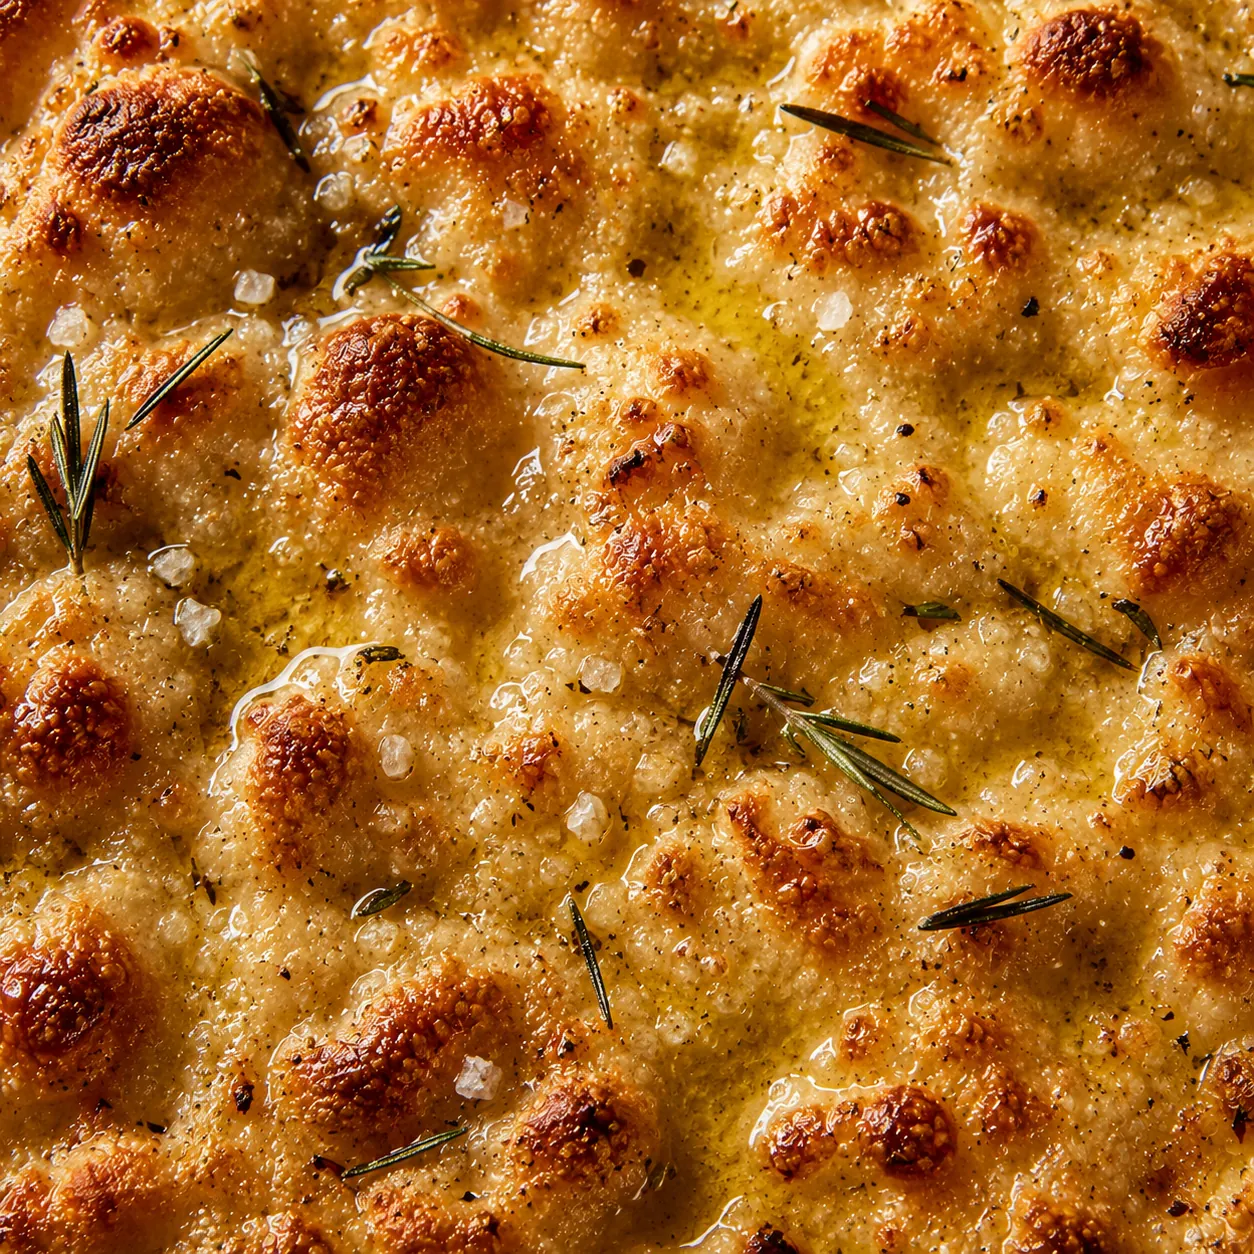
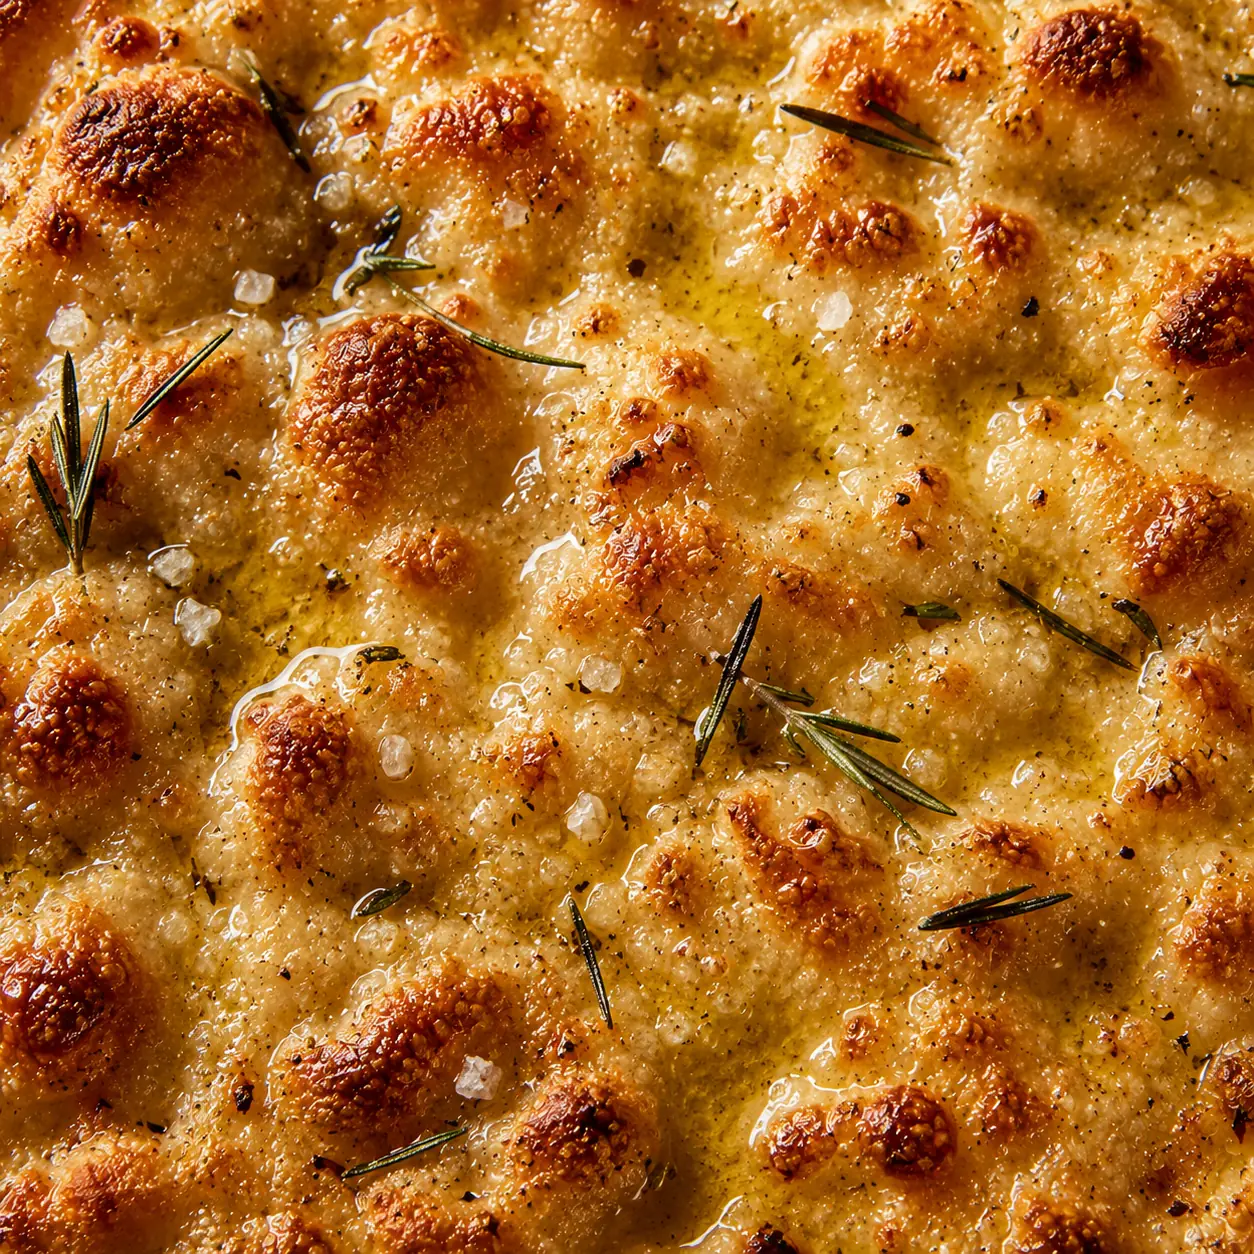
feat(learn): illustrate dough measurement, covered rest and ingredients (#188)

diff --git a/src/app/features/learning/learning-illustration.tsx b/src/app/features/learning/learning-illustration.tsx
@@ -28,6 +28,11 @@ import mozzarellaDrying from "../../../assets/learn/mozzarella-drying.webp";
 import stoneBrushing from "../../../assets/learn/stone-brushing.webp";
 import pizzaTurning from "../../../assets/learn/pizza-turning.webp";
 import oilTemperature from "../../../assets/learn/oil-temperature.webp";
+import doughTemperature from "../../../assets/learn/dough-temperature.webp";
+import coveredRest from "../../../assets/learn/covered-rest.webp";
+import coveredStorage from "../../../assets/learn/covered-storage.webp";
+import remilledSemolina from "../../../assets/learn/remilled-semolina.webp";
+import sauceDosing from "../../../assets/learn/sauce-dosing.webp";
 import { uiMessage } from "../../i18n/ui-messages";
 
 const VISUALS = {
@@ -61,6 +66,11 @@ const VISUALS = {
   "stone-brushing": { src: stoneBrushing, caption: () => uiMessage("learn.visual.stoneBrushing"), source: "https://ooni.com/blogs/ooni-insights/how-to-clean-a-pizza-stone", author: "Ooni", cc: false },
   "pizza-turning": { src: pizzaTurning, caption: () => uiMessage("learn.visual.pizzaTurning"), source: "https://ooni.com/products/ooni-pizza-turning-peel", author: "Ooni", cc: false },
   "oil-temperature": { src: oilTemperature, caption: () => uiMessage("learn.visual.oilTemperature"), source: "https://blog.thermoworks.com/best-thermometer-for-deep-frying/", author: "ThermoWorks", cc: false },
+  "dough-temperature": { src: doughTemperature, caption: () => uiMessage("learn.visual.doughTemperature"), source: "https://www.kingarthurbaking.com/blog/2018/05/29/desired-dough-temperature", author: "King Arthur Baking", cc: false },
+  "covered-rest": { src: coveredRest, caption: () => uiMessage("learn.visual.coveredRest"), source: "https://www.kingarthurbaking.com/blog/2021/09/28/how-to-refrigerate-bread-dough-to-bake-later", author: "Mark Weinberg / King Arthur Baking", cc: false },
+  "covered-storage": { src: coveredStorage, caption: () => uiMessage("learn.visual.coveredStorage"), source: "https://www.kingarthurbaking.com/blog/2023/04/18/never-cover-rising-bread-dough-with-towel", author: "King Arthur Baking", cc: false },
+  "remilled-semolina": { src: remilledSemolina, caption: () => uiMessage("learn.visual.remilledSemolina"), source: "https://shop.drax-muehle.de/produkte/detail/1333/bio-hartweizenmehl-semola-di-grano-duro-rimacinata-1-kg", author: "Drax-Mühle", cc: false },
+  "sauce-dosing": { src: sauceDosing, caption: () => uiMessage("learn.visual.sauceDosing"), source: "https://www.pexels.com/photo/putting-tomato-sauce-on-dough-for-pizza-17637072/", author: "Saulo Leite / Pexels", cc: false },
 } as const;
 
 export type LearningIllustrationId = keyof typeof VISUALS;
@@ -76,15 +86,17 @@ export const GLOSSARY_VISUALS: Readonly<Partial<Record<string, LearningIllustrat
   hydration: "hydration", flour_type: "whole-wheat", thermal_conductivity: "home-oven",
   rule_of_55: "water-temperature", friction_factor: "mixer-dough",
   thickness_factor: "portion-weighing",
+  q10: "dough-temperature", semola_rimacinata: "remilled-semolina",
 };
 
 /** These illustrate a gesture in the advice, never a visual diagnosis. */
 export const TROUBLESHOOTING_VISUALS: Readonly<Partial<Record<string, readonly LearningIllustrationId[]>>> = {
-  P01: ["folds"], P02: ["stretching"], P03: ["poke-test"], P07: ["stretching"],
-  P16: ["stretching"], P19: ["stretching"], P23: ["ball-shaping"],
+  P01: ["folds"], P02: ["stretching"], P03: ["poke-test"], P07: ["stretching", "covered-rest"],
+  P16: ["stretching"], P19: ["stretching", "covered-rest"], P23: ["ball-shaping"],
+  P04: ["dough-temperature"], P05: ["covered-storage"], P21: ["covered-storage"],
   P09: ["home-oven"], P10: ["stone-temperature"], P22: ["peel-prep"],
   FR02: ["frying-drain"], FR03: ["frying-seal"], P15: ["base-check", "stone-brushing"],
-  FR01: ["oil-temperature"], P18: ["mozzarella-drying"], P14: ["pizza-turning"],
+  FR01: ["oil-temperature"], P18: ["mozzarella-drying", "sauce-dosing"], P14: ["pizza-turning"],
 };
 
 export function LearningIllustration({ id, decorative = false }: {

diff --git a/src/app/i18n/ui-messages.ja.ts b/src/app/i18n/ui-messages.ja.ts
@@ -1,5 +1,11 @@
 /** Catalogo UI giapponese (ja-JP): traduzione di ui-messages.it.ts. Stesse chiavi, stessi segnaposto. */
 export const UI_MESSAGES_JA: Record<string, string> = {
+  "learn.visual.doughTemperature": "生地にプローブを差し込み、温度を測ります。生地の温度は室温と異なることがあります。",
+  "learn.visual.coveredRest": "休ませる間は容器を覆い、生地の表面が乾燥するのを抑えます。",
+  "learn.visual.coveredStorage": "容器に合ったふたで乾燥を抑えます。冷蔵庫で休ませる間も生地が膨らめるよう、上に空間を残します。",
+  "learn.visual.remilledSemolina": "デュラム小麦を細かく再製粉したセモリナの一例です。見た目や色だけでは、他の小麦粉と区別できません。",
+  "learn.visual.sauceDosing": "レシピで指定された量のトマトを薄く広げ、中央にたまらないようにします。",
+
   "learn.visual.portionWeighing": "丸める前に一つ分の生地を量ります。ピザの厚さは、生地の重さと広げる面積の両方で変わります。",
   "learn.visual.mozzarellaDrying": "ピザに載せる前に、フレッシュモッツァレラを吸水紙に広げて余分な水分を取ります。",
   "learn.visual.stoneBrushing": "冷めてからのお手入れです。メーカーの指示に従い、石に適したブラシで残りかすを取り除きます。",

diff --git a/src/app/i18n/ui-messages.fr.ts b/src/app/i18n/ui-messages.fr.ts
@@ -1,5 +1,11 @@
 /** Catalogo UI francese (fr-FR): traduzione di ui-messages.it.ts. Stesse chiavi, stessi segnaposto. */
 export const UI_MESSAGES_FR: Record<string, string> = {
+  "learn.visual.doughTemperature": "Insère la sonde dans la pâte pour mesurer sa température, qui peut différer de celle de la pièce.",
+  "learn.visual.coveredRest": "Couvre le récipient pendant le repos pour limiter le dessèchement de la surface de la pâte.",
+  "learn.visual.coveredStorage": "Un couvercle bien ajusté limite le dessèchement. Laisse de la place pour que la pâte puisse gonfler, même pendant le repos au réfrigérateur.",
+  "learn.visual.remilledSemolina": "Un exemple de semoule de blé dur remoulue : l’aspect et la couleur ne suffisent pas à la distinguer des autres farines.",
+  "learn.visual.sauceDosing": "Étale une fine couche de tomate avec la quantité prévue par la recette, en évitant les accumulations au centre.",
+
   "learn.visual.portionWeighing": "Pesez chaque portion avant de la bouler. Le poids de pâte et la surface de la pizza influencent tous deux l’épaisseur.",
   "learn.visual.mozzarellaDrying": "Répartissez la mozzarella fraîche sur du papier absorbant pour retirer l’excès d’humidité avant de garnir la pizza.",
   "learn.visual.stoneBrushing": "Entretien à froid : retirez les résidus avec une brosse adaptée à la pierre, en suivant les instructions du fabricant.",

diff --git a/src/app/i18n/ui-messages.es.ts b/src/app/i18n/ui-messages.es.ts
@@ -1,5 +1,11 @@
 /** Catalogo UI spagnolo (es-ES): traduzione di ui-messages.it.ts. Stesse chiavi, stessi segnaposto. */
 export const UI_MESSAGES_ES: Record<string, string> = {
+  "learn.visual.doughTemperature": "Introduce la sonda en la masa para medir su temperatura, que puede ser distinta de la temperatura ambiente.",
+  "learn.visual.coveredRest": "Cubre el recipiente durante el reposo para limitar que se seque la superficie de la masa.",
+  "learn.visual.coveredStorage": "Una tapa bien ajustada limita la desecación. Deja espacio para que la masa pueda crecer, también durante el reposo en la nevera.",
+  "learn.visual.remilledSemolina": "Un ejemplo de sémola de trigo duro remolida: el aspecto y el color por sí solos no permiten distinguirla de otras harinas.",
+  "learn.visual.sauceDosing": "Extiende una capa ligera de tomate con la cantidad indicada en la receta, evitando acumulaciones en el centro.",
+
   "learn.visual.portionWeighing": "Pesa cada porción antes de formar la bola. Tanto el peso de la masa como la superficie de la pizza influyen en el grosor.",
   "learn.visual.mozzarellaDrying": "Distribuye la mozzarella fresca sobre papel absorbente para eliminar el exceso de humedad antes de cubrir la pizza.",
   "learn.visual.stoneBrushing": "Mantenimiento en frío: retira los residuos con un cepillo adecuado para la piedra, siguiendo las instrucciones del fabricante.",

diff --git a/src/app/i18n/ui-messages.de.ts b/src/app/i18n/ui-messages.de.ts
@@ -1,5 +1,11 @@
 /** Catalogo UI tedesco (de-DE): traduzione di ui-messages.it.ts. Stesse chiavi, stessi segnaposto. */
 export const UI_MESSAGES_DE: Record<string, string> = {
+  "learn.visual.doughTemperature": "Stecke den Fühler in den Teig, um seine Temperatur zu messen. Sie kann von der Raumtemperatur abweichen.",
+  "learn.visual.coveredRest": "Decke den Behälter während der Ruhezeit ab, damit die Teigoberfläche weniger austrocknet.",
+  "learn.visual.coveredStorage": "Ein gut sitzender Deckel schützt vor Austrocknung. Lass Platz, damit der Teig auch während der Ruhezeit im Kühlschrank aufgehen kann.",
+  "learn.visual.remilledSemolina": "Ein Beispiel für fein nachgemahlenen Hartweizengrieß: Aussehen und Farbe allein reichen nicht aus, um ihn von anderen Mehlen zu unterscheiden.",
+  "learn.visual.sauceDosing": "Verteile die in der Rezeptur vorgesehene Tomatenmenge dünn und vermeide dicke Ansammlungen in der Mitte.",
+
   "learn.visual.portionWeighing": "Jede Portion vor dem Rundwirken wiegen. Sowohl Teiggewicht als auch Pizzafläche beeinflussen die Dicke.",
   "learn.visual.mozzarellaDrying": "Frischen Mozzarella vor dem Belegen auf saugfähigem Papier verteilen, um überschüssige Feuchtigkeit zu entfernen.",
   "learn.visual.stoneBrushing": "Pflege im kalten Zustand: Rückstände mit einer für den Stein geeigneten Bürste nach Herstelleranweisung entfernen.",

diff --git a/src/app/i18n/ui-messages.it.ts b/src/app/i18n/ui-messages.it.ts
@@ -3,6 +3,12 @@
  * Le chiavi sono stabili: namespace + hash del messaggio.
  */
 export const UI_MESSAGES_IT: Record<string, string> = {
+  "learn.visual.doughTemperature": "Inserisci la sonda nell’impasto: misura la sua temperatura, che può differire da quella della stanza.",
+  "learn.visual.coveredRest": "Copri il recipiente durante il riposo per limitare l’essiccazione della superficie dell’impasto.",
+  "learn.visual.coveredStorage": "Un coperchio ben adattato limita l’essiccazione. Lascia spazio perché l’impasto possa crescere anche durante il riposo in frigo.",
+  "learn.visual.remilledSemolina": "Un esempio di semola rimacinata di grano duro: aspetto e colore non bastano a distinguerla da altre farine.",
+  "learn.visual.sauceDosing": "Distribuisci il pomodoro in uno strato leggero, secondo la quantità prevista dalla ricetta, evitando accumuli al centro.",
+
   "learn.visual.portionWeighing": "Pesa la porzione prima di formare il panetto. Per lo spessore contano sia il peso dell’impasto sia la superficie della pizza.",
   "learn.visual.mozzarellaDrying": "Distribuisci la mozzarella fresca sulla carta assorbente per eliminare l’umidità in eccesso prima di condire la pizza.",
   "learn.visual.stoneBrushing": "Manutenzione a freddo: rimuovi i residui con una spazzola adatta alla pietra, seguendo le istruzioni del produttore.",

diff --git a/src/app/i18n/ui-messages.pt.ts b/src/app/i18n/ui-messages.pt.ts
@@ -1,5 +1,11 @@
 /** Catalogo UI portoghese (pt-BR): traduzione di ui-messages.it.ts. Stesse chiavi, stessi segnaposto. */
 export const UI_MESSAGES_PT: Record<string, string> = {
+  "learn.visual.doughTemperature": "Introduz a sonda na massa para medir a sua temperatura, que pode ser diferente da temperatura ambiente.",
+  "learn.visual.coveredRest": "Cobre o recipiente durante o repouso para limitar a secagem da superfície da massa.",
+  "learn.visual.coveredStorage": "Uma tampa bem ajustada limita a secagem. Deixa espaço para a massa crescer, mesmo durante o repouso no frigorífico.",
+  "learn.visual.remilledSemolina": "Um exemplo de sêmola de trigo duro remoída: o aspeto e a cor, por si só, não permitem distingui-la de outras farinhas.",
+  "learn.visual.sauceDosing": "Espalha uma camada leve de tomate com a quantidade indicada na receita, evitando acumulações no centro.",
+
   "learn.visual.portionWeighing": "Pesa cada porção antes de formar a bola. Tanto o peso da massa como a área da pizza influenciam a espessura.",
   "learn.visual.mozzarellaDrying": "Distribui a mozzarella fresca sobre papel absorvente para retirar o excesso de humidade antes de cobrir a pizza.",
   "learn.visual.stoneBrushing": "Manutenção a frio: retira os resíduos com uma escova adequada à pedra, seguindo as instruções do fabricante.",

diff --git a/src/app/i18n/ui-messages.en.ts b/src/app/i18n/ui-messages.en.ts
@@ -1,5 +1,11 @@
 /** Catalogo UI inglese (en-GB): traduzione di ui-messages.it.ts. Stesse chiavi, stessi segnaposto. */
 export const UI_MESSAGES_EN: Record<string, string> = {
+  "learn.visual.doughTemperature": "Insert the probe into the dough to measure its temperature, which may differ from room temperature.",
+  "learn.visual.coveredRest": "Cover the bowl during the rest to limit drying on the dough’s surface.",
+  "learn.visual.coveredStorage": "A well-fitting lid limits drying. Leave room for the dough to expand, including during a rest in the fridge.",
+  "learn.visual.remilledSemolina": "An example of remilled durum wheat semolina: appearance and colour alone cannot distinguish it from other flours.",
+  "learn.visual.sauceDosing": "Spread a light layer of tomato using the amount specified in the recipe, avoiding a thick pool in the centre.",
+
   "learn.visual.portionWeighing": "Weigh each portion before rounding it. Both dough weight and pizza area affect thickness.",
   "learn.visual.mozzarellaDrying": "Spread fresh mozzarella on absorbent paper to remove excess moisture before topping the pizza.",
   "learn.visual.stoneBrushing": "Cold maintenance: remove debris with a brush suitable for the stone, following the manufacturer’s instructions.",
